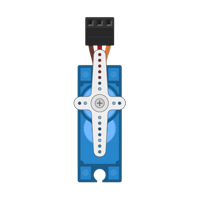
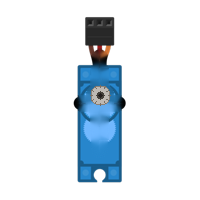
fix(simulator): perbaiki cakupan warna LED hingga dasar dan satukan horn servo tanpa tumpuk

Changed region(s): [[0.36, 0.24, 0.63, 0.81]]

diff --git a/src/components/Simulator.tsx b/src/components/Simulator.tsx
@@ -2302,8 +2302,8 @@ export const Simulator: React.FC<SimulatorProps> = ({
             </linearGradient>
 
             {/* LED Bulb and Legs Clip Paths */}
-            <clipPath id="led_bulb_clip"><rect x="0" y="0" width="200" height="118" /></clipPath>
-            <clipPath id="led_legs_clip"><rect x="0" y="118" width="200" height="82" /></clipPath>
+            <clipPath id="led_bulb_clip"><rect x="0" y="0" width="200" height="140" /></clipPath>
+            <clipPath id="led_legs_clip"><rect x="0" y="140" width="200" height="60" /></clipPath>
 
             {/* Dynamic Gradients for LED Custom Colors */}
             {ledComponents.map(id => {
@@ -2585,15 +2585,15 @@ export const Simulator: React.FC<SimulatorProps> = ({
                   <image href="./led.png" xlinkHref="./led.png" x="0" y="0" width="200" height="200" />
                 </g>
 
-                {/* Internal Lead Frame (Cathode Anvil Cup & Anode Post) */}
-                <path d="M 112,118 L 112,88 L 118,78 L 105,78 L 108,88 L 108,118 Z" fill="#94a3b8" opacity={0.6} />
-                <path d="M 88,118 L 88,88 L 93,88 L 93,118 Z" fill="#94a3b8" opacity={0.6} />
+                {/* Internal Lead Frame (Cathode Anvil Cup & Anode Post connecting to metallic legs at y=140) */}
+                <path d="M 112,140 L 112,88 L 118,78 L 105,78 L 108,88 L 108,140 Z" fill="#94a3b8" opacity={0.65} />
+                <path d="M 88,140 L 88,88 L 93,88 L 93,140 Z" fill="#94a3b8" opacity={0.65} />
                 <path d="M 91,88 Q 97,76 106,78" fill="none" stroke="#fde68a" strokeWidth="1" opacity={0.75} />
                 <rect x="105" y="77" width="3.5" height="3.5" fill={brightness > 0 ? '#ffffff' : '#f8fafc'} opacity={brightness > 0 ? 1 : 0.8} />
 
-                {/* 100% Vector Bulb Dome — Transforms Entire Component to Selected Color */}
+                {/* 100% Vector Bulb Dome — Covers ENTIRE LED body down to y=140 in Selected Color */}
                 <path
-                  d="M 64,106 L 64,52 C 64,24 80,16 100,16 C 120,16 136,24 136,52 L 136,106 L 140,108 L 140,118 L 60,118 L 60,108 Z"
+                  d="M 61,110 L 61,52 C 61,24 77,15 98,15 C 119,15 135,24 135,52 L 135,110 L 138,114 L 138,122 L 124,140 L 72,140 L 58,122 L 58,114 Z"
                   fill={`url(#led_body_grad_${id})`}
                   stroke={hexToRgbDarken(compColor, 0.45)}
                   strokeWidth="1.2"
@@ -2606,13 +2606,15 @@ export const Simulator: React.FC<SimulatorProps> = ({
 
                 {/* 3D Glass Specular Reflections */}
                 {/* Left curved edge glossy reflection */}
-                <path d="M 68,102 L 68,52 C 68,28 78,20 95,18 C 92,21 74,32 74,54 L 74,102 Z" fill="#ffffff" opacity={0.34} />
+                <path d="M 66,128 L 66,52 C 66,28 76,20 95,18 C 92,21 72,32 72,54 L 72,126 Z" fill="#ffffff" opacity={0.34} />
                 {/* Top curvature glint */}
                 <ellipse cx="94" cy="24" rx="14" ry="4.5" transform="rotate(-15, 94, 24)" fill="#ffffff" opacity={0.42} />
-                {/* Bottom flange highlight */}
-                <rect x="62" y="110" width="76" height="2" rx="1" fill="#ffffff" opacity={0.25} />
+                {/* Flange rim highlight */}
+                <rect x="60" y="114" width="76" height="2" rx="1" fill="#ffffff" opacity={0.25} />
+                {/* Bottom tapered skirt reflection */}
+                <line x1="74" y1="139" x2="122" y2="139" stroke="#ffffff" strokeWidth="1" opacity={0.25} />
                 {/* Right edge subtle rim reflection */}
-                <path d="M 132,102 L 132,54 C 132,38 126,26 116,21 C 124,27 128,38 128,54 L 128,102 Z" fill="#ffffff" opacity={0.14} />
+                <path d="M 131,126 L 131,54 C 131,38 125,26 115,21 C 123,27 127,38 127,54 L 127,126 Z" fill="#ffffff" opacity={0.14} />
 
                 {/* Pin indicator dots */}
                 <circle cx="80" cy="185" r="3.5" fill={isWired ? compColor : "#fca5a5"} stroke="#ffffff" strokeWidth="1" />
@@ -2693,11 +2695,40 @@ export const Simulator: React.FC<SimulatorProps> = ({
                   <rect x="58" y="66" width="84" height="92" rx="6" fill={compColor} opacity={0.65} style={{ mixBlendMode: 'color' }} />
                 )}
 
-                {/* Animated Rotating Horn overlay over shaft center (100, 95) */}
+                {/* Animated Rotating SG90 Horn — Single unified horn with 4 arms and linkage holes */}
                 <g transform={`translate(100, 95) rotate(${angle - 90}) translate(-100, -95)`}>
-                  <rect x="75" y="91" width="50" height="8" rx="4" fill="#ffffff" stroke="#cbd5e1" strokeWidth="1" />
-                  <circle cx="100" cy="95" r="5" fill={compColor} />
-                  <circle cx="120" cy="95" r="2.5" fill="#ef4444" />
+                  {/* Primary vertical double arm */}
+                  <rect x="96" y="52" width="8" height="86" rx="4" fill="#ffffff" stroke="#cbd5e1" strokeWidth="1.2" filter="url(#shadow3d)" />
+                  {/* Horizontal cross arm */}
+                  <rect x="72" y="91" width="56" height="8" rx="4" fill="#ffffff" stroke="#cbd5e1" strokeWidth="1.2" />
+                  {/* Center hub disc */}
+                  <circle cx="100" cy="95" r="8" fill="#ffffff" stroke="#cbd5e1" strokeWidth="1.2" />
+
+                  {/* Precision linkage holes on primary top arm */}
+                  <circle cx="100" cy="58" r="1.3" fill="#64748b" />
+                  <circle cx="100" cy="66" r="1.3" fill="#64748b" />
+                  <circle cx="100" cy="74" r="1.3" fill="#64748b" />
+                  <circle cx="100" cy="82" r="1.3" fill="#64748b" />
+
+                  {/* Precision linkage holes on bottom arm */}
+                  <circle cx="100" cy="108" r="1.3" fill="#64748b" />
+                  <circle cx="100" cy="116" r="1.3" fill="#64748b" />
+                  <circle cx="100" cy="124" r="1.3" fill="#64748b" />
+                  <circle cx="100" cy="132" r="1.3" fill="#64748b" />
+
+                  {/* Precision linkage holes on left & right arms */}
+                  <circle cx="78" cy="95" r="1.3" fill="#64748b" />
+                  <circle cx="86" cy="95" r="1.3" fill="#64748b" />
+                  <circle cx="114" cy="95" r="1.3" fill="#64748b" />
+                  <circle cx="122" cy="95" r="1.3" fill="#64748b" />
+
+                  {/* Directional angle pointer indicator at top arm tip */}
+                  <circle cx="100" cy="58" r="2.2" fill={compColor} />
+
+                  {/* Center retaining screw */}
+                  <circle cx="100" cy="95" r="3.6" fill="#94a3b8" stroke="#64748b" strokeWidth="0.8" />
+                  <line x1="97.5" y1="95" x2="102.5" y2="95" stroke="#334155" strokeWidth="0.8" />
+                  <line x1="100" y1="92.5" x2="100" y2="97.5" stroke="#334155" strokeWidth="0.8" />
                 </g>
 
                 {/* Pin indicator dots directly over cable header plug (GND left:85, VCC center:100, SIG right:115) */}
